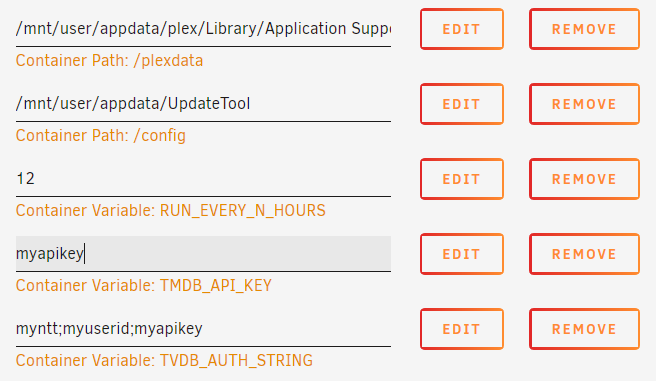
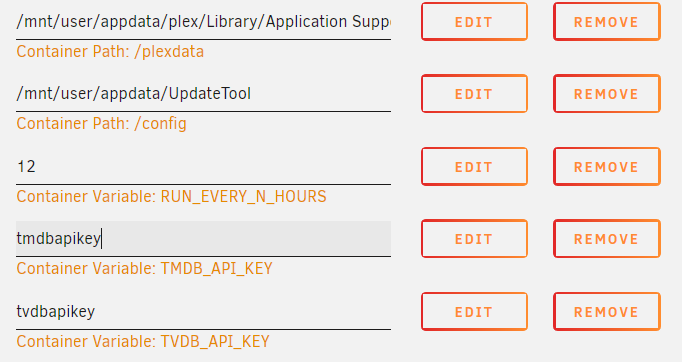
1.3.7 <=> TVDB_API_KEY variable added; TVDB_AUTH_STRING deprecated

diff --git a/src/main/java/updatetool/imdb/ImdbDockerImplementation.java b/src/main/java/updatetool/imdb/ImdbDockerImplementation.java
@@ -38,16 +38,14 @@ public class ImdbDockerImplementation implements Implementation {
     private static final Set<Long> IGNORE_LIBRARIES = new HashSet<>();
     
     public int RUN_EVERY_N_HOUR = 12;
-    private String apikeyTmdb;
-    
-    //Format: <USERNAME>;<USERKEY>;<APIKEY> for ENV
-    private String[] apiauthTvdb;
+    private String apikeyTmdb, apiauthTvdb;
     private Path plexdata;
 
     @Override
     public void invoke(String[] args) throws Exception {
         apikeyTmdb = System.getenv("TMDB_API_KEY");
-        String tvdbAuth = System.getenv("TVDB_AUTH_STRING");
+        String tvdbAuthLegacy = System.getenv("TVDB_AUTH_STRING");
+        String tvdbApiKey = System.getenv("TVDB_API_KEY");
         String data = System.getenv("PLEX_DATA_DIR");
         String ignore = System.getenv("IGNORE_LIBS");
         String capabilitiesEnv = System.getenv("CAPABILITIES");
@@ -112,18 +110,23 @@ public class ImdbDockerImplementation implements Implementation {
             Logger.info("TMDB API key enabled TMDB <=> IMDB matching. Will process TMDB backed Movie and TV Series libraries and TMDB orphans.");
         }
         
-        if(tvdbAuth == null || tvdbAuth.isBlank()) {
-            Logger.info("No TVDB API authorization string detected. Will process TVDB backed TV Series libraries.");
-            capabilities.remove(Capabilities.TVDB);
-        } else {
-            String[] info = tvdbAuth.split(";");
+        if(tvdbAuthLegacy != null && !tvdbAuthLegacy.isBlank()) {
+            Logger.warn("Don't use legacy environment variable TVDB_AUTH_STRING. Use TVDB_API_KEY instead by only providing the TVDB API key.");
+            String[] info = tvdbAuthLegacy.split(";");
             if(info.length == 3) {
-                Main.testApiTvdb(info);
-                apiauthTvdb = info;
-                Logger.info("TVDB API authorization enabled IMDB rating update for TV Series with the TVDB agent.");
+                tvdbApiKey = info[2];
             } else {
                 Logger.error("Invalid TVDB API authorization string given. Must contain 3 items seperated by a ';'. Will ignore TV Series with the TVDB agent.");
             }
+        }
+        
+        if(tvdbApiKey == null || tvdbApiKey.isBlank()) {
+            Logger.info("No TVDB API authorization string detected. Will process TVDB backed TV Series libraries.");
+            capabilities.remove(Capabilities.TVDB);
+        } else {
+            Main.testApiTvdb(tvdbApiKey);
+            apiauthTvdb = tvdbApiKey;
+            Logger.info("TVDB API authorization enabled IMDB rating update for TV Series with the TVDB agent.");
         }
 
         if(args.length >= 2) {

diff --git a/src/main/java/updatetool/imdb/ImdbPipeline.java b/src/main/java/updatetool/imdb/ImdbPipeline.java
@@ -64,13 +64,12 @@ public class ImdbPipeline extends Pipeline<ImdbJob> {
 
     public static class ImdbPipelineConfiguration {
         private final EnumSet<Capabilities> capabilities;
-        public final String tmdbApiKey, dbLocation;
-        public final String[] apiauthTvdb;
+        public final String tmdbApiKey, tvdbApiKey, dbLocation;
         public final Path metadataRoot;
         
-        public ImdbPipelineConfiguration(String tmdbApiKey, String[] apiauthTvdb, Path metadataRoot, String dbLocation, EnumSet<Capabilities> capabilities) {
+        public ImdbPipelineConfiguration(String tmdbApiKey, String tvdbApiKey, Path metadataRoot, String dbLocation, EnumSet<Capabilities> capabilities) {
             this.tmdbApiKey = tmdbApiKey;
-            this.apiauthTvdb = apiauthTvdb;
+            this.tvdbApiKey = tvdbApiKey;
             this.metadataRoot = metadataRoot;
             this.dbLocation = dbLocation;
             this.capabilities =  capabilities;
@@ -93,7 +92,7 @@ public class ImdbPipeline extends Pipeline<ImdbJob> {
         resolveMovies.put("IMDB", new ImdbResolvement());
         resolveMovies.put("TMDB", configuration.resolveTmdb() ? new TmdbMovieToImdbResolvement(caches.get("tmdb"), new TmdbApi(configuration.tmdbApiKey)) : resolveDefault);
         
-        resolveSeries.put("TVDB", configuration.resolveTvdb() ? new TvdbToImdbResolvement(caches.get("tvdb"), caches.get("tvdb-blacklist"), new TvdbApi(configuration.apiauthTvdb)) : resolveDefault);
+        resolveSeries.put("TVDB", configuration.resolveTvdb() ? new TvdbToImdbResolvement(caches.get("tvdb"), caches.get("tvdb-blacklist"), new TvdbApi(configuration.tvdbApiKey)) : resolveDefault);
         resolveSeries.put("TMDB", configuration.resolveTmdb() ? new TmdbSeriesToImdbResolvement(caches.get("tmdb-series"), caches.get("tmdb-series-blacklist"), new TmdbApi(configuration.tmdbApiKey)) : resolveDefault);
         resolveSeries.put("IMDB", new ImdbResolvement());
         

diff --git a/src/main/java/updatetool/Main.java b/src/main/java/updatetool/Main.java
@@ -49,8 +49,7 @@ public class Main {
                              "PLEX_DATA_DIR: Used for the data directory of plex",
                              "The following environment variables are optional and enhance the tool in certain ways.",
                              "(Optional) TMDB_API_KEY: Used to convert TMDB matched items to IMDB items. The fallback will only be available if this is set.",
-                             "(Optional) TVDB_AUTH_STRING: Used to auth with the TVDB API. Must be entered as a ';' seperated string of username, userid, apikey",
-                             "           Example: username;DAWIDK9CJKWFJAWKF;e33914feabd52e8192011b0ce6c8",
+                             "(Optional) TVDB_API_KEY: Used to auth with the TVDB API.",
                              "(Optional) IGNORE_LIBS: Ignore libraries from being touched by this tool by supplying a set of library ids as a semicolon ';' seperated string.",
                              "           Example: Ignoring 1 => IGNORE_LIBS=1 | Ignoring 1, 2, 3 => IGNORE_LIBS=1;2;3",
                              "(Optional) CAPABILITIES: Specify special settings for the tool. Must be entered as a ';' seperated string.",
@@ -172,10 +171,10 @@ public class Main {
         genericApiTest(api);
     }
     
-    public static void testApiTvdb(String[] credentials) {
-        Logger.info("Testing TVDB API authorization: username={} | userkey={} | apikey={}", credentials[0], credentials[1], credentials[2]);
+    public static void testApiTvdb(String key) {
+        Logger.info("Testing TVDB API authorization: apikey={}", key);
         try {
-            new TvdbApi(credentials);
+            new TvdbApi(key);
         } catch(ApiCallFailedException e) {
             Logger.error("API Test failed: " + e.getMessage());
             Logger.error("Keys available under: https://thetvdb.com/");

diff --git a/src/main/java/updatetool/common/TvdbApi.java b/src/main/java/updatetool/common/TvdbApi.java
@@ -38,20 +38,18 @@ public class TvdbApi extends AbstractApi {
         }
     }
     
-    public TvdbApi(String[] credentials) throws ApiCallFailedException {
+    public TvdbApi(String key) throws ApiCallFailedException {
         super();
-        authToken = "Bearer " + auth(credentials);
+        authToken = "Bearer " + auth(key);
     }
 
     private class Token { String token; };
     
-    private String auth(String[] credentials) throws ApiCallFailedException {
+    private String auth(String key) throws ApiCallFailedException {
         try {
             var response = send(
                         postJson(BASE_URL + "/login", gson.toJson(Map.of(
-                                "username", credentials[0],
-                                "userkey", credentials[1],
-                                "apikey", credentials[2])
+                                "apikey", key)
                                 ))
                         );
             if(response.statusCode() != 200) {

diff --git a/README.md b/README.md
@@ -48,9 +48,16 @@ Docker is on [dockerhub](https://hub.docker.com/r/mynttt/updatetool) | [UnRaid i
 Name | Description
 :-------------------------:|:-------------------------:|
 TMDB_API_KEY|Enables TMDB Movie/Series library processing
-TVDB_AUTH_STRING|Enables TVDB Series library processing
+TVDB_API_KEY|Enables TVDB Series library processing
 IGNORE_LIBS|Ignore libraries with certain IDs ([more here](#Ignore-libraries-from-being-updated))
 CAPABILITIES|Custom flags for the tool ([more here](#supply-custom-capability-flags))
+
+Deprecated variables can still be used although their usage is discouraged.
+
+### Deprecated Environment Variables
+Name | Description | Deprecation
+:-------------------------:|:-------------------------:|:-------------------------:|
+TVDB_AUTH_STRING|Enables TVDB Series library processing|API Key is enough for this tool to work
 
 ## To run your docker:
 
@@ -76,7 +83,7 @@ docker run -dit -e RUN_EVERY_N_HOURS=12 \
 
 docker run -dit -e RUN_EVERY_N_HOURS=12 \
     -e TMDB_API_KEY=yourkey \
-    -e TVDB_AUTH_STRING="tvdbusername;tvdbuserid;tvdbapikey" \
+    -e TVDB_API_KEY=tvdbapikey \
     -v "/mnt/data/Plex Media Server":/plexdata \
     -v "/mnt/data/imdpupdaterconfig":/config \
     mynttt/updatetool
@@ -92,7 +99,7 @@ docker run -dit
     -e TMDB_API_KEY=yourkey \
      # Three items are required to auth with TVDB username, userkey, apikey
      # Supply these as semicolon seperated values. Example: username;DAWIDK9CJKWFJAWKF;e33914feabd52e8192011b0ce6c8
-    -e TVDB_AUTH_STRING="tvdbusername;tvdbuserkey;tvdbapikey" \
+    -e TVDB_API_KEY=tvdbapikey \
      # The plex data root (that contains Plug-ins, Metadata, ...
      # https://support.plex.tv/articles/202915258-where-is-the-plex-media-server-data-directory-located/
     -v "/mnt/data/Plex Media Server":/plexdata \
@@ -101,7 +108,7 @@ docker run -dit
     mynttt/updatetool
 ```
 
-[TVDB User Key](https://thetvdb.com/dashboard/account/editinfo) - [TVDB API Key](https://thetvdb.com/dashboard/account/apikey)
+[TVDB API Key](https://thetvdb.com/dashboard/account/apikey)
 
 *"/mnt/data/Plex Media Server" and "/mnt/data/imdpupdaterconfig" are just sample paths! Set your own paths there or it will probably not work!*
 

diff --git a/CHANGELOG.md b/CHANGELOG.md
@@ -1,3 +1,8 @@
+## 1.3.7
+ - Deprecated environment variable TVDB_AUTH_STRING as TVDB API only requires the API Key
+ - TVDB_AUTH_STRING can still be used, the API Key will be extracted automatically
+ - New variable TVDB_API_KEY introduced which only takes the TVDB API Key
+
 ## 1.3.6
 - Asynchronous resolvement => faster HTTP processing with APIs
 - If TMDB capability exists (TMDB API key set) the tool will also go after movie libraries with the TMDB agent (com.plexapp.agents.themoviedb)
